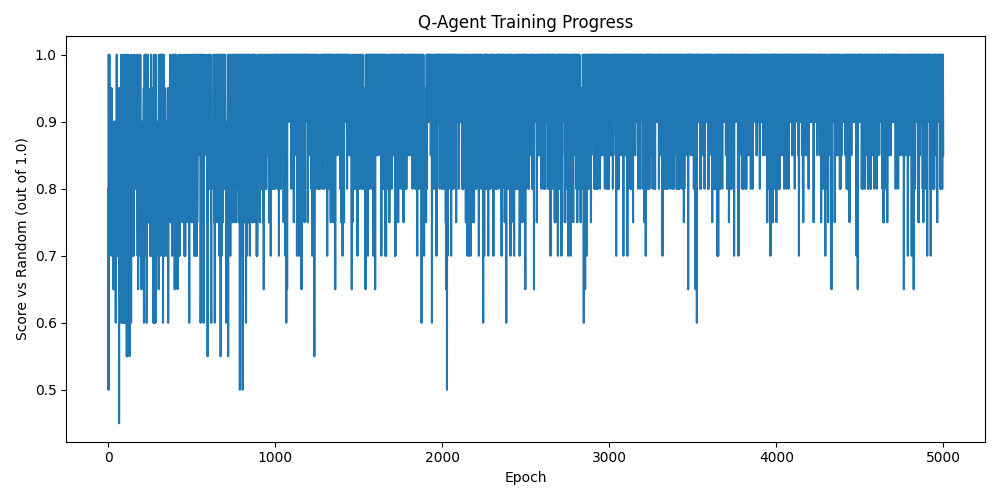
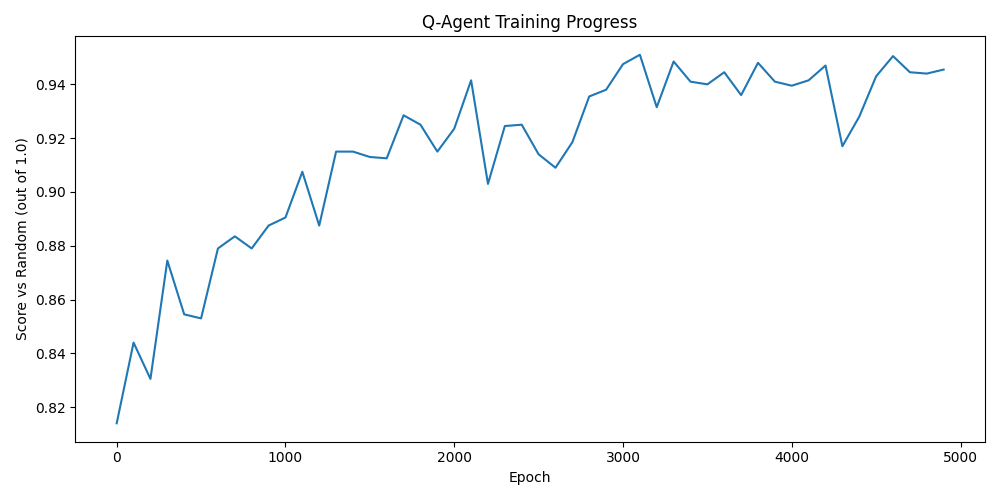
clean up

diff --git a/main.py b/main.py
@@ -215,10 +215,10 @@ class tic_tac_toe_board():
             print(f"{i + 1} | {current_row}")
             print(separator)
 
-
-# --- Training ---
-
 def run_training(n_epochs=5000, epsilon_start=0.1, delta=0.001, m=50):
+    """
+    Basic Training loop as laid out
+    """
     agent = QAgent(learning_rate=0.5, gamma=0.9)
     random_opponent = RandomAgent()
     scores = []
@@ -236,8 +236,7 @@ def run_training(n_epochs=5000, epsilon_start=0.1, delta=0.001, m=50):
         # test 10 games as X vs random O
         score = 0.0
         for _ in range(10):
-            test_board = tic_tac_toe_board(3, 3, PlayType.AGENT_VS_AGENT,
-                                           player_x=agent, player_o=random_opponent, verbose=False)
+            test_board = tic_tac_toe_board(3, 3, PlayType.AGENT_VS_AGENT,player_x=agent, player_o=random_opponent, verbose=False)
             result, winner = test_board.game_loop(epsilon=0.0, train=False)
             if result == GameState.WIN and winner == 'x':
                 score += 1.0
@@ -251,9 +250,16 @@ def run_training(n_epochs=5000, epsilon_start=0.1, delta=0.001, m=50):
     return agent, scores
 
 
-def plot_training(scores):
+def plot_training(scores, interval=100):
+    # average score over every `interval` epochs so the trend is visible
+    averaged = [
+        sum(scores[i:i + interval]) / interval
+        for i in range(0, len(scores), interval)
+    ]
+    x = [i * interval for i in range(len(averaged))]
+
     plt.figure(figsize=(10, 5))
-    plt.plot(scores)
+    plt.plot(x, averaged)
     plt.xlabel("Epoch")
     plt.ylabel("Score vs Random (out of 1.0)")
     plt.title("Q-Agent Training Progress")